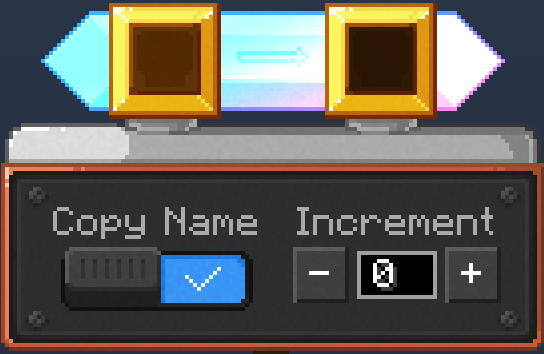
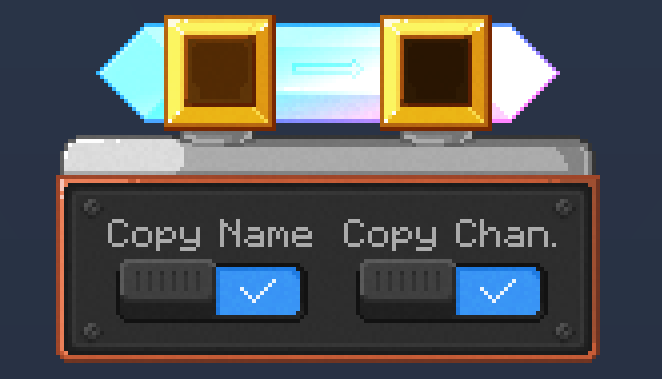
fix: out of date docs (#19)
* image

* update out-of-date documentation

diff --git a/guidebook/items-blocks/card_programmer.md b/guidebook/items-blocks/card_programmer.md
@@ -27,19 +27,10 @@ settings
 
 ![](../assets/images/card_programmer_gui.png)
 
-## What gets copied
+You'll also notice two toggle buttons to copy the template's name and the channel.
 
-Mostly what it's useful for is copying priority of a <ItemLink id="storage_card" /> template
-or a Card's name.
-
-### Naming copied cards
-
-Cards programmed together are usually meant to be distinguishable, the Card Programmer
-has the built-in batch-rename to save you from manually setting 20 aliases.
-
-Renaming 20 cards at a time in an anvil is miserable so you can turn on **Copy Name**
-and the Card Programmer will stamp the template's name onto each target with a
-running counter appended. (`chest_0`, `chest_1`, `chest_2`, and so on)
+> **Note:** Any card that's dropped or shift+clicked into the "Target" slot
+> will immediately return to your inventory after the copy is complete.
 
 ## Recipe
 
